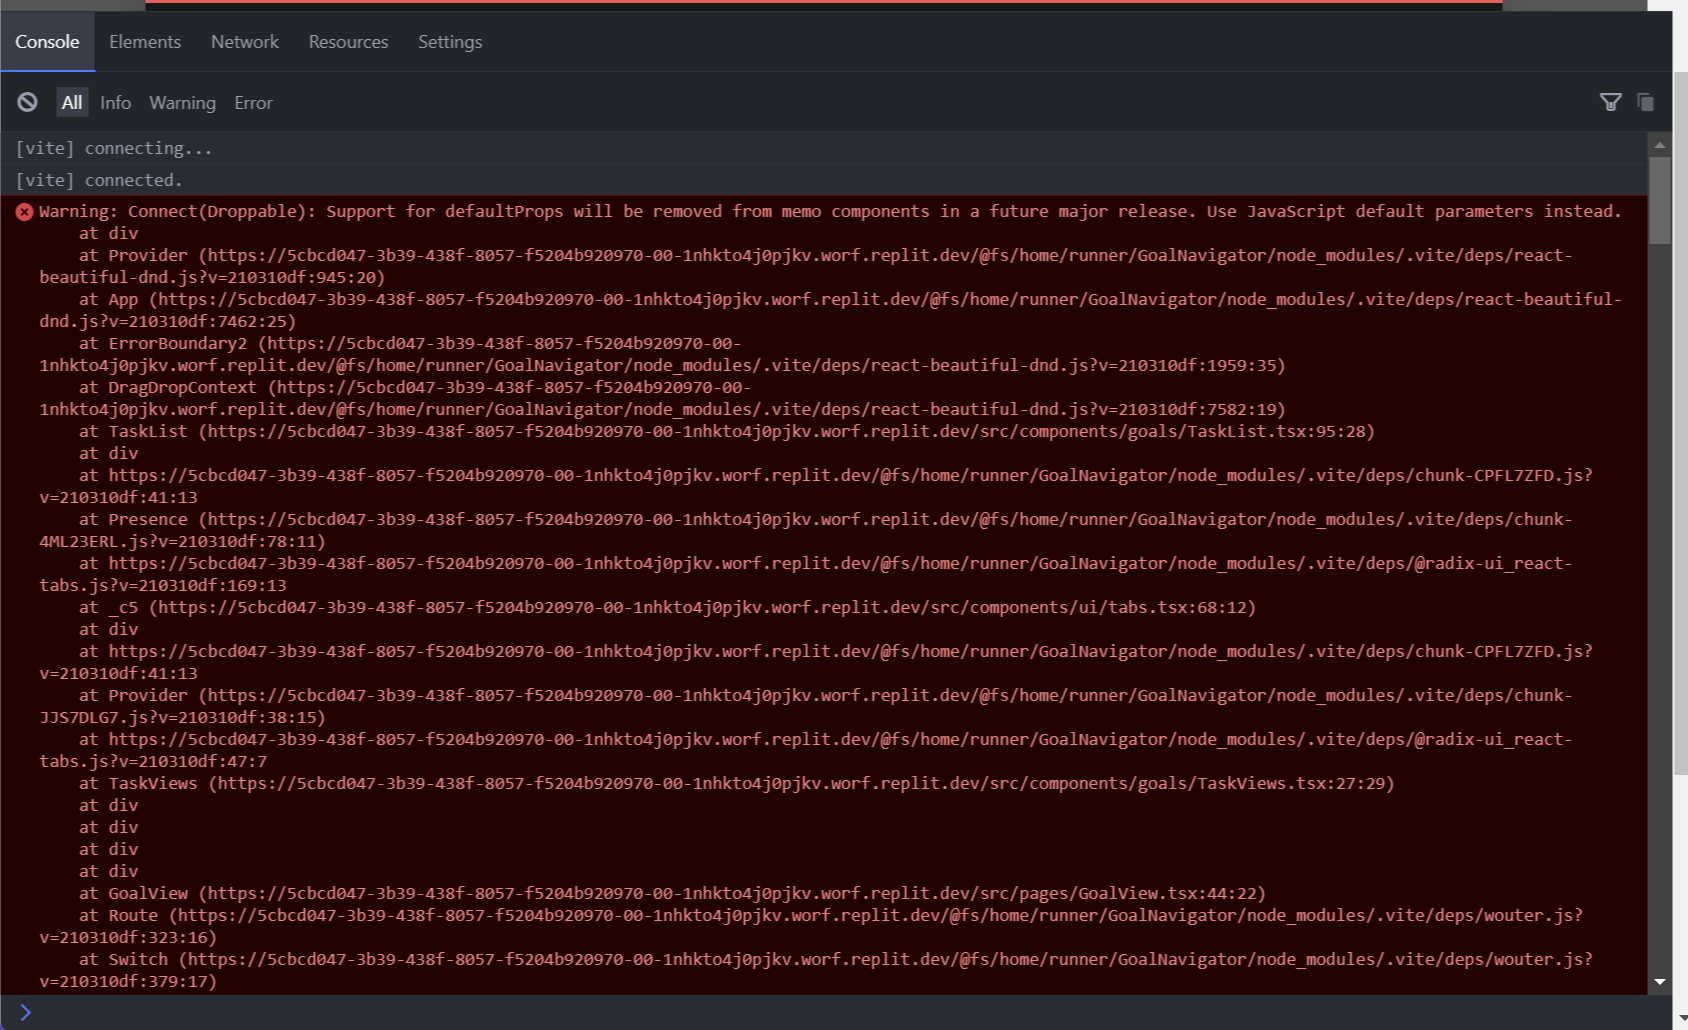
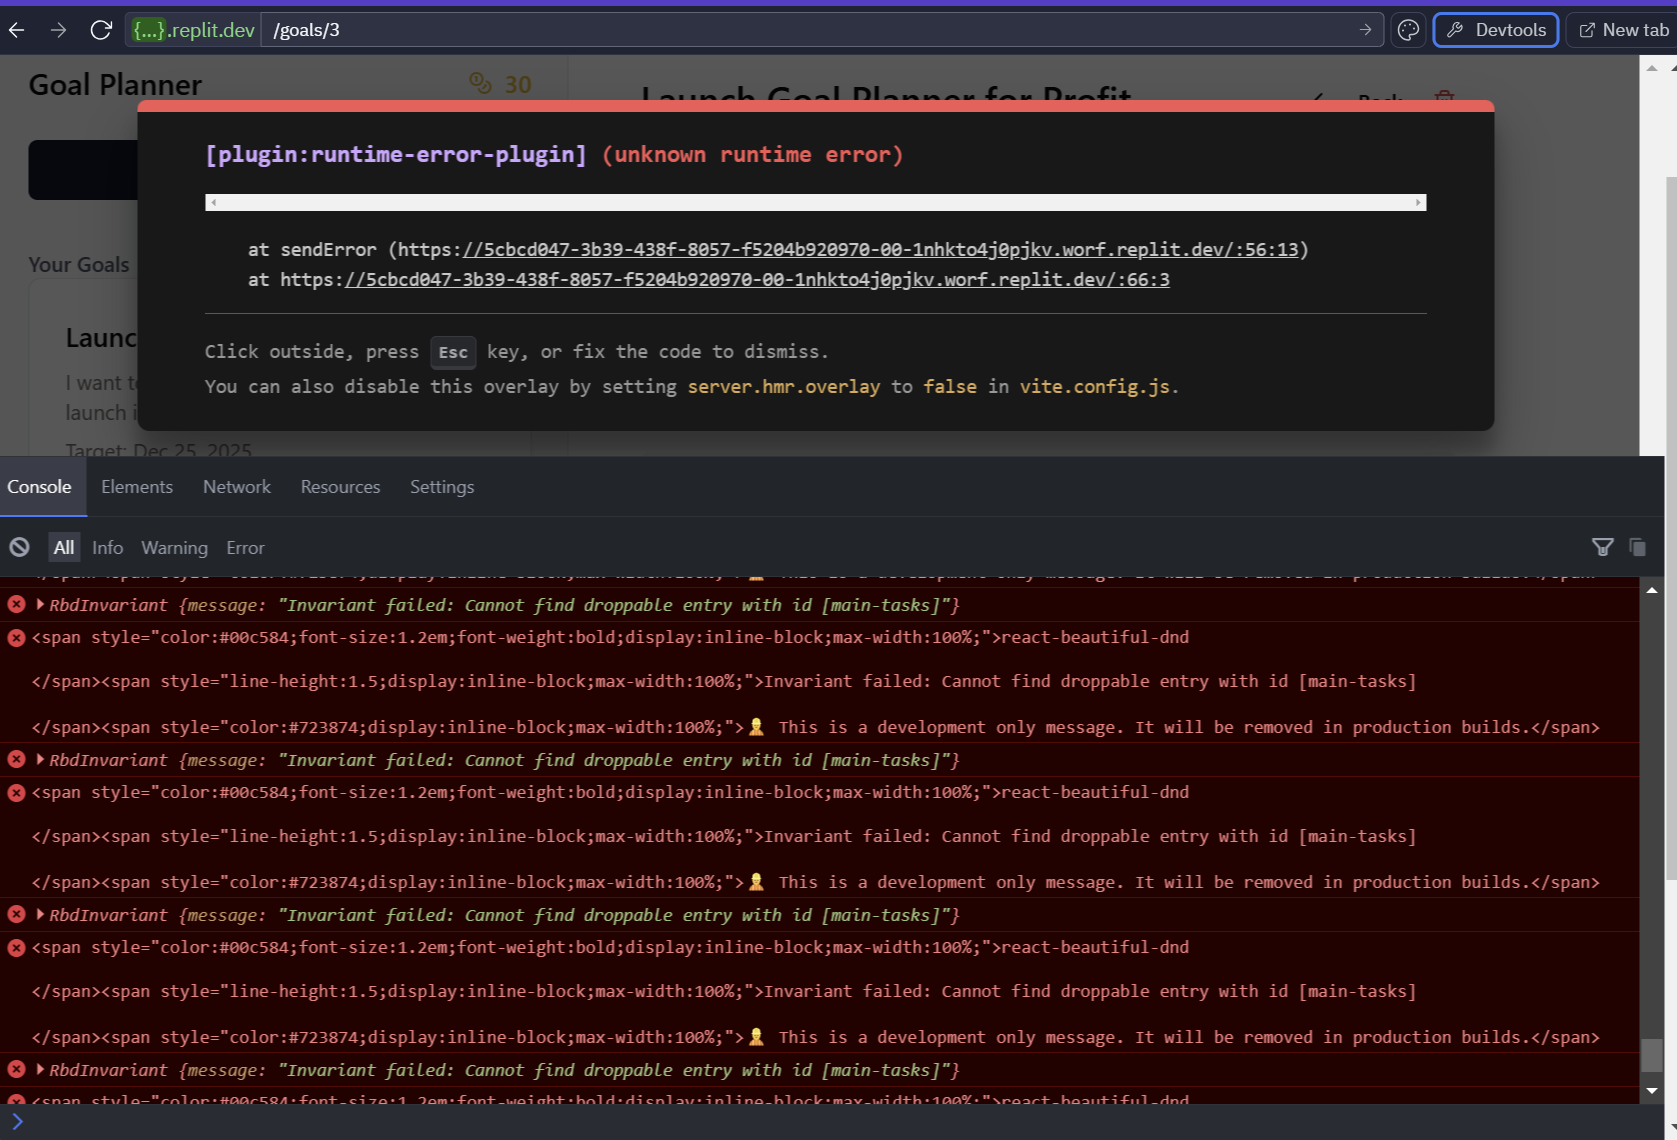
Agent query: Can you try dragging tasks now? The drag and drop functionality should be working without errors.
Refactor drag-and-drop to use StrictModeDroppable for improved hydration.

Screenshot: https://storage.googleapis.com/screenshot-production-us-central1/5cbcd047-3b39-438f-8057-f5204b920970/fb765fa0-e215-4f4f-827d-8b4b2f6e68aa.jpg

diff --git a/client/src/components/goals/TaskList.tsx b/client/src/components/goals/TaskList.tsx
@@ -12,7 +12,8 @@ import { Dialog, DialogContent, DialogHeader, DialogTitle } from "@/components/u
 import { Calendar } from "@/components/ui/calendar";
 import { TaskTimer } from "./TaskTimer";
 import { useToast } from "@/hooks/use-toast";
-import { DragDropContext, Droppable, Draggable, DropResult } from "react-beautiful-dnd";
+import { DragDropContext, Droppable, Draggable, type DropResult } from "react-beautiful-dnd";
+import { StrictModeDroppable } from "./StrictModeDroppable";
 
 interface TaskListProps {
   tasks: Task[];
@@ -81,15 +82,6 @@ export function TaskList({ tasks, goalId, readOnly = false, onUpdateTaskDate }: 
   const [editingTaskId, setEditingTaskId] = useState<number | null>(null);
   const [showDatePicker, setShowDatePicker] = useState<{ taskId: number; date?: Date } | null>(null);
   const [expandedTasks, setExpandedTasks] = useState<Set<number>>(new Set());
-  const [enabled, setEnabled] = useState(false);
-
-  // Enable drag and drop after initial render to avoid hydration issues
-  useEffect(() => {
-    const timeout = setTimeout(() => {
-      setEnabled(true);
-    }, 0);
-    return () => clearTimeout(timeout);
-  }, []);
 
   const handleDelete = async (taskId: number) => {
     try {
@@ -145,6 +137,8 @@ export function TaskList({ tasks, goalId, readOnly = false, onUpdateTaskDate }: 
         order: minOrder - 1000,
       });
       setEditingTaskId(newTask.id);
+      // Expand the task list when adding a new task
+      setExpandedTasks(new Set([...expandedTasks, newTask.id]));
     } catch (error) {
       console.error("Failed to create task:", error);
     }
@@ -219,6 +213,8 @@ export function TaskList({ tasks, goalId, readOnly = false, onUpdateTaskDate }: 
         order: minOrder - 1000,
       });
       setEditingTaskId(newSubtask.id);
+      // Expand the parent task when adding a new subtask
+      setExpandedTasks(new Set([...expandedTasks, parentTaskId]));
     } catch (error) {
       console.error("Failed to create subtask:", error);
     }
@@ -242,10 +238,6 @@ export function TaskList({ tasks, goalId, readOnly = false, onUpdateTaskDate }: 
       .filter(task => task.parentTaskId === parentId)
       .sort((a, b) => (a.order ?? 0) - (b.order ?? 0));
   };
-
-  if (!enabled) {
-    return <div>Loading...</div>;
-  }
 
   return (
     <>
@@ -285,7 +277,7 @@ export function TaskList({ tasks, goalId, readOnly = false, onUpdateTaskDate }: 
         </div>
 
         <DragDropContext onDragEnd={handleDragEnd}>
-          <Droppable droppableId="main-tasks" type="MAIN_TASK">
+          <StrictModeDroppable droppableId="main-tasks" type="MAIN_TASK">
             {(provided) => (
               <div
                 ref={provided.innerRef}
@@ -432,7 +424,10 @@ export function TaskList({ tasks, goalId, readOnly = false, onUpdateTaskDate }: 
                           className="ml-6 space-y-2"
                         >
                           <Collapsible.Content className="transition-all data-[state=closed]:animate-collapse data-[state=open]:animate-expand overflow-hidden">
-                            <Droppable droppableId={`subtasks-${mainTask.id}`} type={`SUBTASK-${mainTask.id}`}>
+                            <StrictModeDroppable 
+                              droppableId={`subtasks-${mainTask.id}`} 
+                              type={`SUBTASK-${mainTask.id}`}
+                            >
                               {(provided) => (
                                 <div
                                   ref={provided.innerRef}
@@ -493,7 +488,7 @@ export function TaskList({ tasks, goalId, readOnly = false, onUpdateTaskDate }: 
                                   {provided.placeholder}
                                 </div>
                               )}
-                            </Droppable>
+                            </StrictModeDroppable>
                           </Collapsible.Content>
                         </Collapsible.Root>
                       </div>
@@ -503,7 +498,7 @@ export function TaskList({ tasks, goalId, readOnly = false, onUpdateTaskDate }: 
                 {provided.placeholder}
               </div>
             )}
-          </Droppable>
+          </StrictModeDroppable>
         </DragDropContext>
 
         {/* Date Picker Dialog */}

diff --git a/client/src/components/goals/StrictModeDroppable.tsx b/client/src/components/goals/StrictModeDroppable.tsx
@@ -1,0 +1,23 @@
+import { useEffect, useState } from "react";
+import { Droppable, DroppableProps } from "react-beautiful-dnd";
+
+export function StrictModeDroppable({ children, ...props }: DroppableProps) {
+  const [enabled, setEnabled] = useState(false);
+
+  useEffect(() => {
+    const animation = requestAnimationFrame(() => {
+      setEnabled(true);
+    });
+
+    return () => {
+      cancelAnimationFrame(animation);
+      setEnabled(false);
+    };
+  }, []);
+
+  if (!enabled) {
+    return null;
+  }
+
+  return <Droppable {...props}>{children}</Droppable>;
+}
